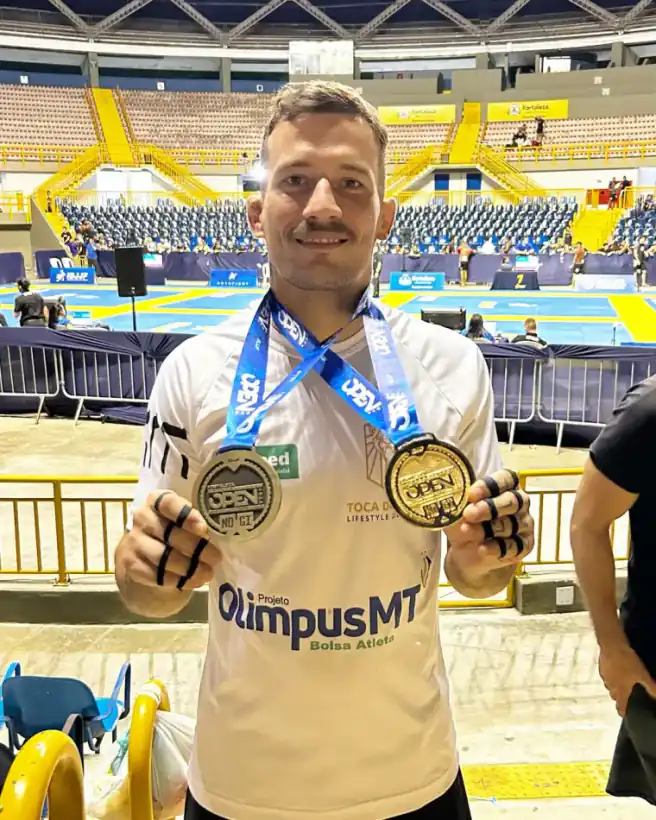
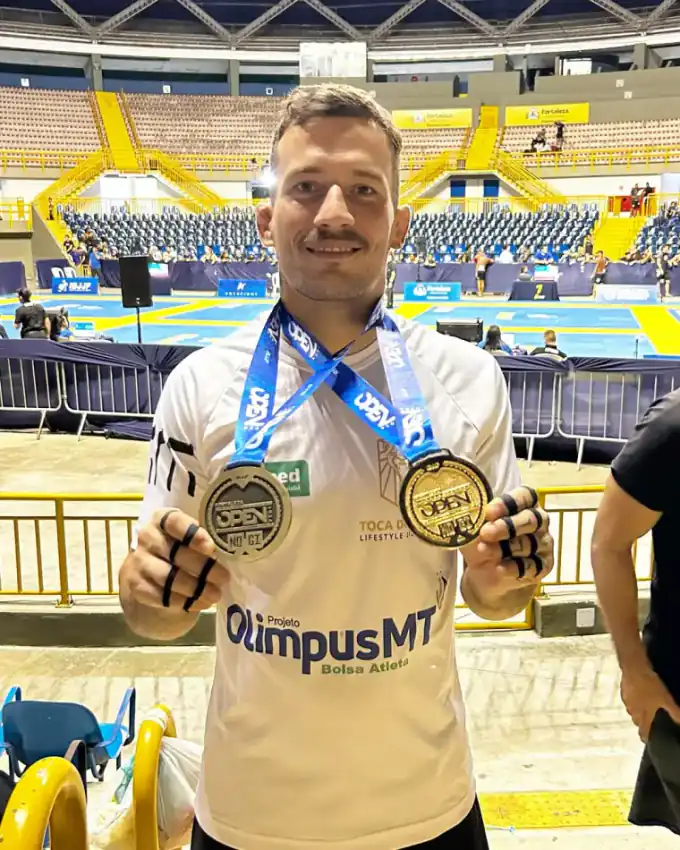
Ajustes SEO

diff --git a/vite.config.ts b/vite.config.ts
@@ -1,6 +1,41 @@
-import { defineConfig } from 'vite'
+import { defineConfig, type Plugin } from 'vite'
 import react from '@vitejs/plugin-react'
 
+function inlineBuiltCss(): Plugin {
+  return {
+    name: 'inline-built-css',
+    apply: 'build',
+    enforce: 'post',
+    generateBundle(_, bundle) {
+      for (const asset of Object.values(bundle)) {
+        if (asset.type !== 'asset' || !asset.fileName.endsWith('.html')) {
+          continue
+        }
+
+        let html = asset.source.toString()
+        const cssLinks = html.matchAll(
+          /<link rel="stylesheet" crossorigin href="\/([^"]+\.css)">/g,
+        )
+
+        for (const match of cssLinks) {
+          const [, cssFileName] = match
+          const cssAsset = bundle[cssFileName]
+
+          if (!cssAsset || cssAsset.type !== 'asset') {
+            continue
+          }
+
+          const css = cssAsset.source.toString()
+          html = html.replace(match[0], `<style data-inline-css>${css}</style>`)
+          delete bundle[cssFileName]
+        }
+
+        asset.source = html
+      }
+    },
+  }
+}
+
 export default defineConfig({
-  plugins: [react()],
+  plugins: [react(), inlineBuiltCss()],
 })

diff --git a/src/App.tsx b/src/App.tsx
@@ -1600,7 +1600,7 @@ function App() {
                         src={leader.image}
                         srcSet={
                           'mobileImage' in leader
-                            ? `${leader.mobileImage} 656w, ${leader.image} ${leader.width}w`
+                            ? `${leader.mobileImage} 680w, ${leader.image} ${leader.width}w`
                             : undefined
                         }
                         sizes={leaderImageSizes}
